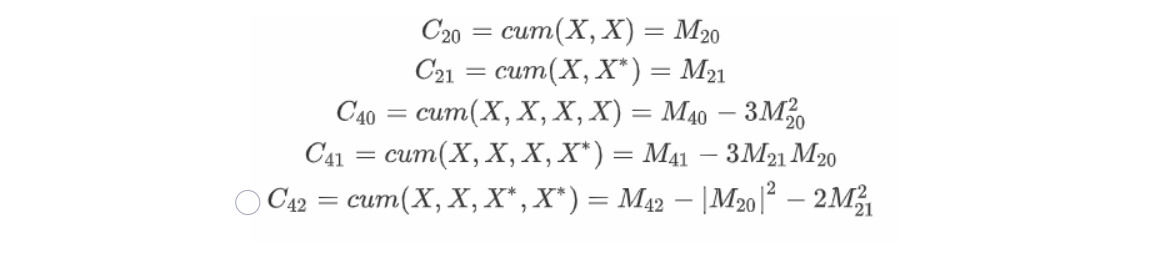
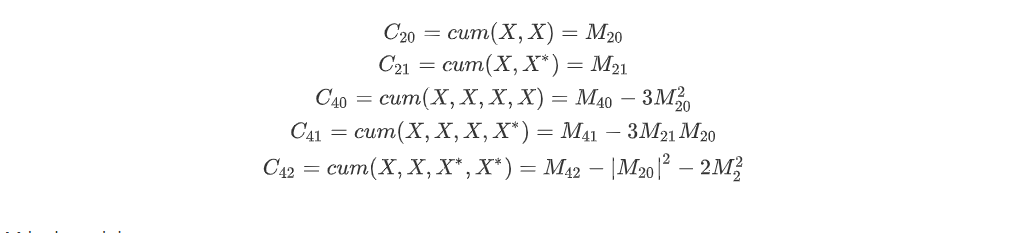
Update

diff --git a/src/SVM/SVM_doc.md b/src/SVM/SVM_doc.md
@@ -19,23 +19,16 @@ Signals in all modulation formats can be generated by `dataset_generate.m`, whic
 
 Higher-order cumulants are defined as
 
-
-$$
-C_{20}= cum(X,X)=M_{20} \\
-C_{21}= cum(X,X^*)=M_{21}\\
-C_{40}= cum(X,X,X,X)=M_{40}-3M^2_{20}\\
-C_{41}= cum(X,X,X,X^*)=M_{41}-3M_{21}M_{20}\\
-C_{42}= cum(X,X,X^*,X^*)=M_{42}-|M_{20}|^2-2M_{2}^2\\
-$$
+![equation1](pic\equation1.png)
 
 
 M is the mixing moment:
 
-![equation2](equation2-1576669445783.png)
+![equation2](pic\equation2.png)
 
 The use of higher-order cumulants can significantly suppress Gaussian white noise. And different format of modulation often show different statistics. We use three statistics below to identify different formats of signals:
 
-![equation3](equation3-1576669475857.png)
+![equation3](pic\equation3.png)
 
 16QAM, QPSK and 8PSK signals will be classified directly.
 
